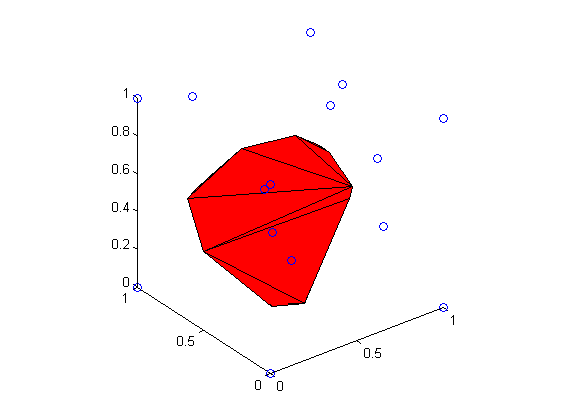
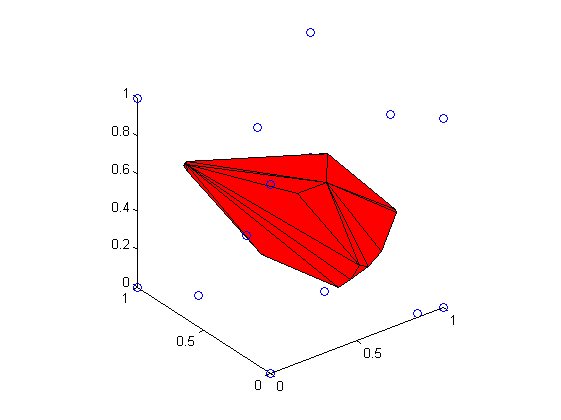
meshes3d: update mergeCoplanarFaces.m, and corresponding demo

Changed region(s): [[0.3333, 0.3095, 0.7273, 0.7429], [0.3333, 0.2167, 0.3636, 0.2476]]

diff --git a/demos/meshes3d/html/demoVoronoiCell.html b/demos/meshes3d/html/demoVoronoiCell.html
@@ -6,7 +6,7 @@
    <!--
 This HTML is auto-generated from an M-file.
 To make changes, update the M-file and republish this document.
-      --><title>demoVoronoiCell</title><meta name="generator" content="MATLAB 7.9"><meta name="date" content="2012-04-05"><meta name="m-file" content="demoVoronoiCell"><style type="text/css">
+      --><title>demoVoronoiCell</title><meta name="generator" content="MATLAB 7.9"><meta name="date" content="2014-06-16"><meta name="m-file" content="demoVoronoiCell"><style type="text/css">
 
 body {
   background-color: white;
@@ -113,20 +113,20 @@ vertices = V(indVert, :);
 K = convhulln(vertices);
 
 <span class="comment">% draw the polyhedron</span>
-drawPolyhedron(vertices, K);
+drawMesh(vertices, K);
 </pre><img vspace="5" hspace="5" src="demoVoronoiCell_02.png" alt=""> <h2>Compute and display minimal polyhedron<a name="5"></a></h2><pre class="codeinput"><span class="comment">% merge some faces to reduce total number of faces.</span>
 <span class="comment">% new faces are 3D polygons</span>
 <span class="comment">% K2 is a cell array, each cell containing a row vector with indices of</span>
 <span class="comment">% 'points' corresponding to vertices of each face.</span>
-K2 = meshReduce(vertices, K);
+[V2 F2] = mergeCoplanarFaces(vertices, K);
 
 <span class="comment">% display the germs</span>
-figure(1); clf; hold <span class="string">on</span>;
+figure(2); clf; hold <span class="string">on</span>;
 set(gcf, <span class="string">'renderer'</span>, <span class="string">'opengl'</span>);
 drawPoint3d(germs);
 
 <span class="comment">% draw the polyhedron</span>
-drawPolyhedron(vertices, K2);
+drawMesh(V2, F2);
 
 <span class="comment">% graphical settings</span>
 view(3);
@@ -193,7 +193,7 @@ vertices = V(indVert, :);
 K = convhulln(vertices);
 
 % draw the polyhedron
-drawPolyhedron(vertices, K);
+drawMesh(vertices, K);
 
 
 %% Compute and display minimal polyhedron
@@ -202,19 +202,20 @@ drawPolyhedron(vertices, K);
 % new faces are 3D polygons
 % K2 is a cell array, each cell containing a row vector with indices of
 % 'points' corresponding to vertices of each face.
-K2 = meshReduce(vertices, K);
+[V2 F2] = mergeCoplanarFaces(vertices, K);
 
 % display the germs
-figure(1); clf; hold on;
+figure(2); clf; hold on;
 set(gcf, 'renderer', 'opengl');
 drawPoint3d(germs);
 
 % draw the polyhedron
-drawPolyhedron(vertices, K2);
+drawMesh(V2, F2);
 
 % graphical settings
 view(3);
 axis equal;
+
 
 ##### SOURCE END #####
 --></body></html>

diff --git a/matGeom/meshes3d/mergeCoplanarFaces.m b/matGeom/meshes3d/mergeCoplanarFaces.m
@@ -3,29 +3,30 @@ function varargout = mergeCoplanarFaces(nodes, varargin)
 %
 %   [NODES FACES] = mergeCoplanarFaces(NODES, FACES)
 %   [NODES EDGES FACES] = mergeCoplanarFaces(NODES, EDGES, FACES)
-%   NODES is a set of 3D points (as a Nn-by-3 array), 
+%   NODES is a set of 3D points (as a nNodes-by-3 array), 
 %   and FACES is one of:
-%   - a Nf-by-X array containing vertex indices of each face, with each
+%   - a nFaces-by-X array containing vertex indices of each face, with each
 %   face having the same number of vertices,
-%   - a Nf-by 1 cell array, each cell containing indices of a face.
+%   - a nFaces-by-1 cell array, each cell containing indices of a face.
 %   The function groups faces which are coplanar and contiguous, resulting
 %   in a "lighter" mesh. This can be useful for visualizing binary 3D
 %   images for example.
 %
 %   FACES = mergeCoplanarFaces(..., PRECISION)
 %   Adjust the threshold for deciding if two faces are coplanar or
-%   parallel. Default value is 1e-14.
+%   parallel. Default value is 1e-5.
 %
 %   Example
-%   [v e f] = createCube;
-%   figure; drawMesh(v, f); view(3); axis equal; view vis3d;
-%   f2 = mergeCoplanarFaces(v, f);
-%   figure; drawMesh(v, f2); view(3); axis equal; view vis3d;
+%   [v e iFace] = createCube;
+%   figure; drawMesh(v, iFace); view(3); axis equal;
+%   [v2 f2] = mergeCoplanarFaces(v, iFace);
+%   figure; drawMesh(v, f2); 
+%   view(3); axis equal; view(3);
 %
 %   See also
 %   meshes3d, drawMesh, minConvexHull, triangulateFaces
 %
-%
+
 % ------
 % Author: David Legland
 % e-mail: david.legland@grignon.inra.fr
@@ -45,7 +46,7 @@ function varargout = mergeCoplanarFaces(nodes, varargin)
 %% Process input arguments
 
 % set up precision
-acc = 1e-14;
+acc = 1e-5;
 if ~isempty(varargin)
     var = varargin{end};
     if length(var) == 1
@@ -65,11 +66,11 @@ end
 %% Initialisations
 
 % number of faces
-Nn = size(nodes, 1);
-Nf = size(faces, 1);
+nNodes = size(nodes, 1);
+nFaces = size(faces, 1);
 
 % compute number of vertices of each face
-Fn = ones(Nf, 1) * size(faces, 2);
+Fn = ones(nFaces, 1) * size(faces, 2);
 
 % compute normal of each faces
 normals = faceNormal(nodes, faces);
@@ -81,28 +82,27 @@ edges2  = zeros(0, 2);
 % Processing flag for each face
 % 1: face to process, 0: already processed
 % in the beginning, every triangle face need to be processed
-flag = ones(Nf, 1);
+flag = ones(nFaces, 1);
 
 
 %% Main iteration
 
 % iterate on each  face
-for f = 1:Nf
+for iFace = 1:nFaces
     
     % check if face was already performed
-    if ~flag(f)
+    if ~flag(iFace)
         continue;
     end
 
     % indices of faces with same normal
-%     ind = find(abs(vectorNorm3d(cross(repmat(normals(f, :), [Nf 1]), normals)))<acc);
-    ind = find(vectorNorm3d(vectorCross3d(normals(f, :), normals)) < acc);
-    %ind = ind(ind~=i);
+%     ind = find(abs(vectorNorm3d(cross(repmat(normals(iFace, :), [nFaces 1]), normals)))<acc);
+    ind = find(vectorNorm3d(vectorCross3d(normals(iFace, :), normals)) < acc);
     
     % keep only coplanar faces (test coplanarity of points in both face)
     ind2 = false(size(ind));
     for j = 1:length(ind)
-        ind2(j) = isCoplanar(nodes([faces(f,:) faces(ind(j),:)], :), acc);
+        ind2(j) = isCoplanar(nodes([faces(iFace,:) faces(ind(j),:)], :), acc);
     end
     ind2 = ind(ind2);
     
@@ -117,31 +117,34 @@ for f = 1:Nf
     end
     planeEdges = unique(planeEdges, 'rows');
     
-    % relabel plane edges, and find connected components
+    % relabel plane edges
     [planeNodes I J] = unique(planeEdges(:)); %#ok<ASGLU>
     planeEdges2 = reshape(J, size(planeEdges));
+    
+    % The set of coplanar faces may not necessarily form a single connected
+    % component. The following computes label of each connected component.
     component   = grLabel(nodes(planeNodes, :), planeEdges2);
     
     % compute degree (number of adjacent faces) of each edge.
     Npe = size(planeEdges, 1);
-    edgesDegree = zeros(Npe, 1);
+    edgeDegrees = zeros(Npe, 1);
     for i = 1:length(ind2)
         face = faces(ind2(i), :);
         faceEdges = sort([face' face([2:end 1])'], 2);
         for j = 1:size(faceEdges, 1)
             indEdge = find(sum(ismember(planeEdges, faceEdges(j,:)),2)==2);
-            edgesDegree(indEdge) = edgesDegree(indEdge)+1;
+            edgeDegrees(indEdge) = edgeDegrees(indEdge)+1;
         end
     end
     
     % extract unique edges and nodes of the plane
-    planeEdges  = planeEdges(edgesDegree==1, :);
-    planeEdges2 = planeEdges2(edgesDegree==1, :);
+    planeEdges  = planeEdges(edgeDegrees==1, :);
+    planeEdges2 = planeEdges2(edgeDegrees==1, :);
     
     % find connected component of each edge
     planeEdgesComp = zeros(size(planeEdges, 1), 1);
-    for e = 1:size(planeEdges, 1)
-        planeEdgesComp(e) = component(planeEdges2(e, 1));
+    for iEdge = 1:size(planeEdges, 1)
+        planeEdgesComp(iEdge) = component(planeEdges2(iEdge, 1));
     end
     
     % iterate on connected faces
@@ -172,7 +175,7 @@ end
 indNodes = unique(edges2(:));
 
 % for each node, compute index of corresponding new node (or 0 if dropped)
-refNodes = zeros(Nn, 1);
+refNodes = zeros(nNodes, 1);
 for i = 1:length(indNodes)
     refNodes(indNodes(i)) = i;
 end
@@ -183,14 +186,14 @@ for i = 1:length(edges2(:))
 end
 
 % changes indices of nodes in faces2 array
-for f = 1:length(faces2)
-    face = faces2{f};
+for iFace = 1:length(faces2)
+    face = faces2{iFace};
     for i = 1:length(face)
         if ~isnan(face(i))
             face(i) = refNodes(face(i));
         end
     end
-    faces2{f} = face;
+    faces2{iFace} = face;
 end
 
 % keep only boundary nodes
@@ -241,15 +244,15 @@ function labels = grLabel(nodes, edges)
 % Copyright 2007 INRA - BIA PV Nantes - MIAJ Jouy-en-Josas.
 
 % init
-Nn = size(nodes, 1);
-labels = (1:Nn)';
+nNodes = size(nodes, 1);
+labels = (1:nNodes)';
 
 % iteration
 modif = true;
 while modif
     modif = false;
     
-    for i=1:Nn
+    for i=1:nNodes
         neigh = getNeighbourNodes(i, edges);
         neighLabels = labels([i;neigh]);
         

diff --git a/demos/meshes3d/demoVoronoiCell.m b/demos/meshes3d/demoVoronoiCell.m
@@ -57,7 +57,7 @@ vertices = V(indVert, :);
 K = convhulln(vertices);
 
 % draw the polyhedron
-drawPolyhedron(vertices, K);
+drawMesh(vertices, K);
 
 
 %% Compute and display minimal polyhedron
@@ -66,16 +66,17 @@ drawPolyhedron(vertices, K);
 % new faces are 3D polygons
 % K2 is a cell array, each cell containing a row vector with indices of
 % 'points' corresponding to vertices of each face.
-K2 = meshReduce(vertices, K);
+[V2 F2] = mergeCoplanarFaces(vertices, K);
 
 % display the germs
-figure(1); clf; hold on;
+figure(2); clf; hold on;
 set(gcf, 'renderer', 'opengl');
 drawPoint3d(germs);
 
 % draw the polyhedron
-drawPolyhedron(vertices, K2);
+drawMesh(V2, F2);
 
 % graphical settings
 view(3);
 axis equal;
+
